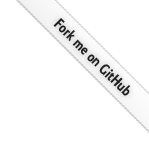
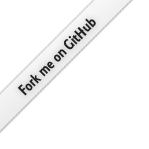
Added link forkme

diff --git a/views/layout.html b/views/layout.html
@@ -11,6 +11,10 @@
 </head>
 <body>
 
+  <a href="https://github.com/techparty/techparty-suggestion" target="_blank">
+    <img class="github-link" src="images/forkme.png" alt="Fork me on GitHub">
+  </a>
+
   <div class="content">
     
     <header class="wrapper header">

diff --git a/assets/css/style.css b/assets/css/style.css
@@ -74,8 +74,8 @@ button:hover {
 }
 
 .github-link {
+  left: 0;
   position: fixed;
-  right: 0;
   top: 0;
   z-index: 1;
 }
